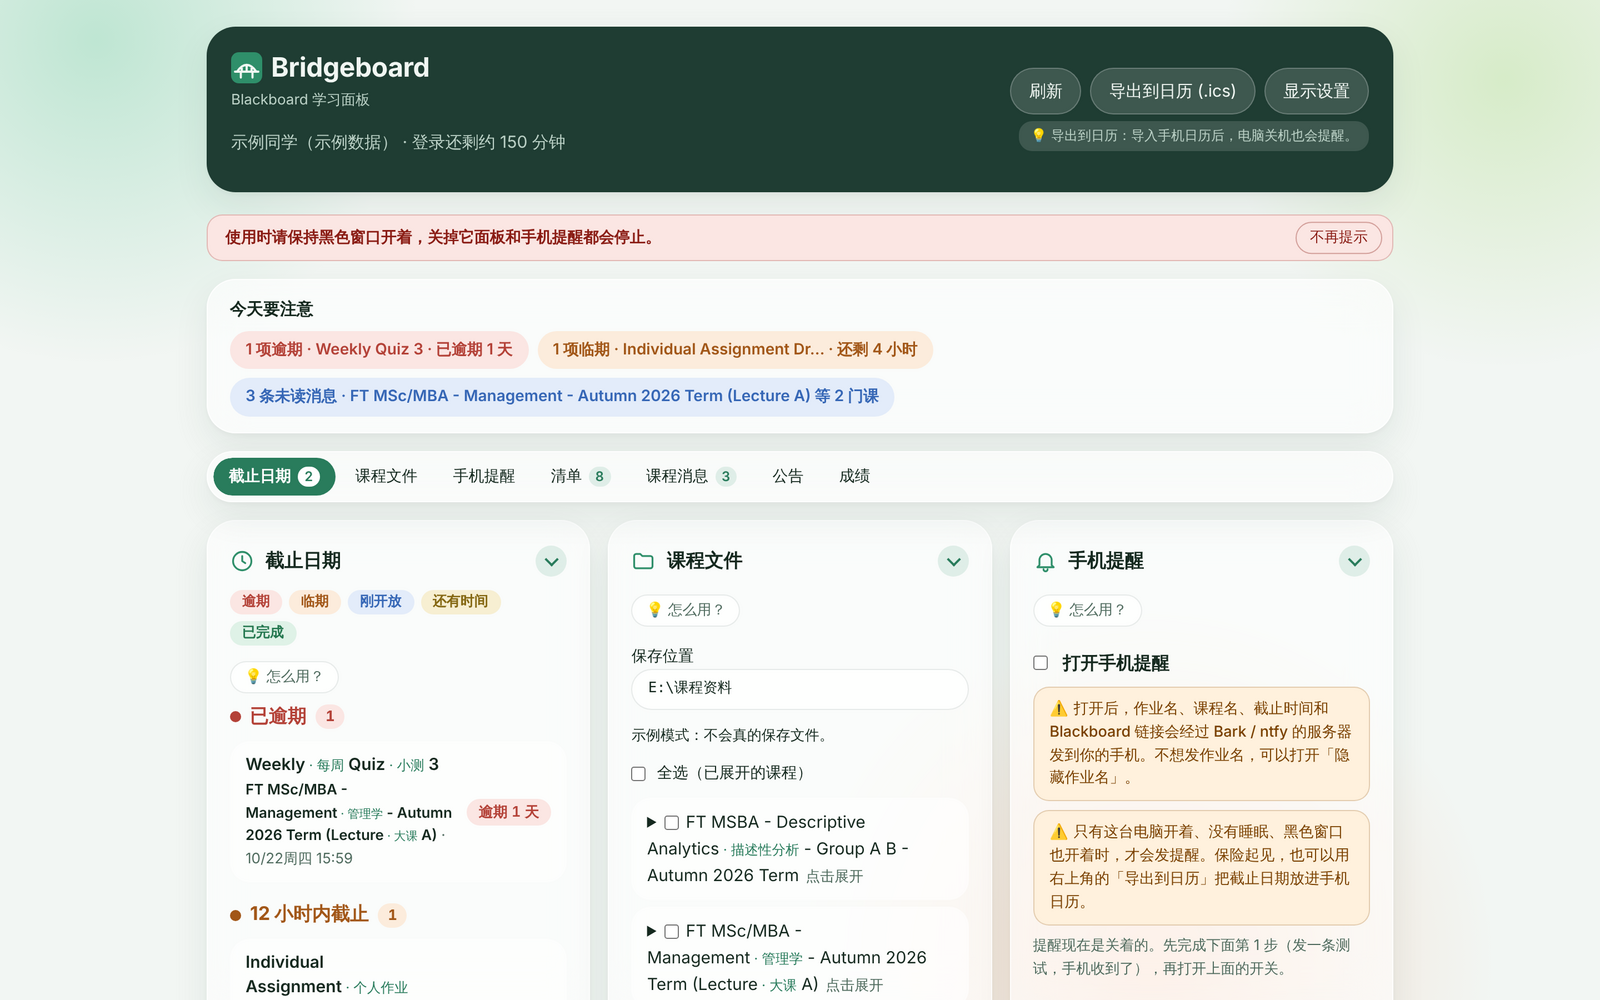
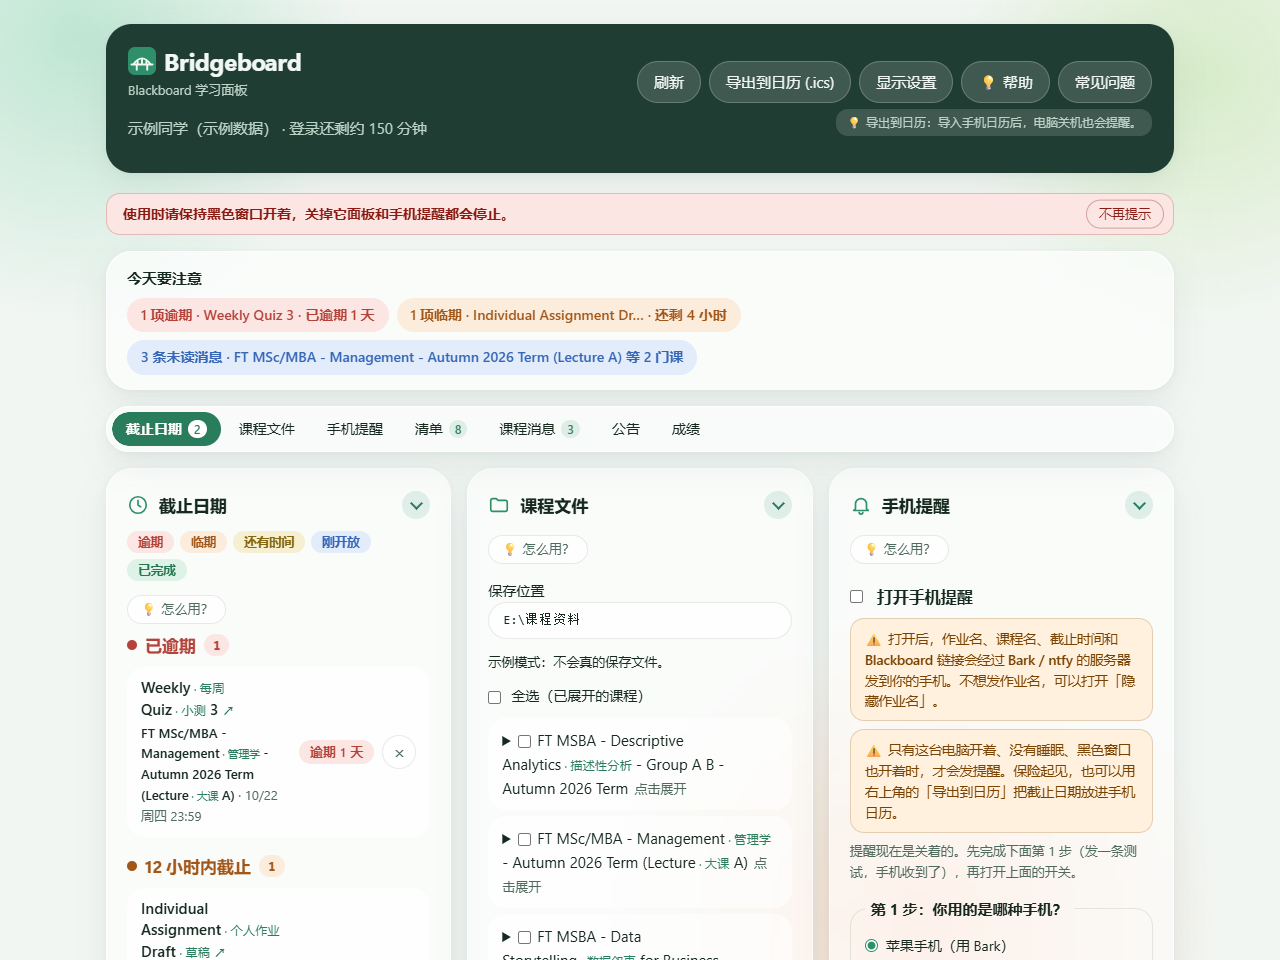
First stage done: new screenshots and README (v0.3.0)
The first-run guide is finished and the owner confirmed the first stage
complete, so the middle number goes up.

README: a new overview screenshot plus the welcome box and the help card
(demo data, light look); the feature list adds the first-run guide and
💡 帮助 with a searchable FAQ, ignoring overdue work, ↗ links to Blackboard
and the read-only promise; the colour order, usage notes, privacy and
roadmap are brought up to date. The licence section is unchanged.

CLAUDE.md: the roadmap moves the guide to Done; now comes the first-stage
wrap-up (visitor statistics, a full review, the public launch), then a
Mac version and an English website.

diff --git a/README.md b/README.md
@@ -27,13 +27,22 @@ Every Blackboard deadline on one page
 
 | | 功能 | What it does |
 | --- | --- | --- |
-| ⏰ | **五色截止提醒**：所有课程的作业按逾期、临期、刚开放、还有时间、已完成排好，点标题直达 Blackboard | Deadlines from every course in five colours, one click to the assignment |
+| ⏰ | **五色截止提醒**：所有课程的作业按逾期、临期、还有时间、刚开放、已完成排好 | Deadlines from every course in five colours |
+| 🙈 | **逾期作业可以忽略**：点 × 不再提醒，6 秒内可撤销，随时能在「已忽略」里恢复；只记在你的电脑上 | Stop reminders for an overdue assignment, with undo and restore |
+| ↗ | **直接打开 Blackboard**：作业、课程消息、公告、成绩后面的 ↗ 在新标签页打开 Blackboard 对应的页面 | A ↗ opens the matching Blackboard page in a new tab |
 | 📁 | **课程文件一键下载**：勾选课程，选文件夹（U 盘也行），按课程整理；可导出给 AI 用的文字版 | Download course files sorted by course, with text copies for AI tools |
 | 🔔 | **手机提醒**：iPhone 用 Bark，安卓用 ntfy；默认关闭，测试成功才会发 | Opt-in phone alerts through Bark (iPhone) or ntfy (Android) |
 | ✅ | **清单**：作业自动加入，交了自动打勾；也能写自己的待办 | A checklist that fills and ticks itself, plus your own to-dos |
 | 💬 | **课程消息**：各门课的消息集中在一处，未读标出来 | Course messages from every course in one list |
 | 📢 | **公告和成绩**：所有课程的公告和成绩一起看 | Announcements and grades across courses |
 | 📅 | **导出到日历**：导入手机日历，电脑关机也会提醒 | Export deadlines to your phone's calendar |
+| 💡 | **新手引导和帮助**：第一次打开会在页面上一步步带你认识各个功能；之后随时点「💡 帮助」再看，「常见问题」可以搜索 | A first-run walk-through, a 💡 help button and a searchable FAQ |
+| 🔒 | **只读，不改 Blackboard**：只读取，不交作业、不做测验，连「已读」都不会替你标 | Read-only: it never changes anything in Blackboard, not even "read" |
+
+<p align="center">
+  <img src="docs/screenshot-guide.png" width="420" alt="第一次打开：欢迎框「感谢您选择 Bridgeboard」（示例数据）">
+  <img src="docs/screenshot-help.png" width="420" alt="「💡 帮助」打开的新手引导卡片（示例数据）">
+</p>
 
 适用于使用 **Blackboard Learn Ultra** 的学校（登录后网址里有 `/ultra`）。 · Works with schools on Blackboard Learn Ultra.
 
@@ -44,6 +53,8 @@ Every Blackboard deadline on one page
 3. **双击 `start.bat`**：会出现一个黑色窗口（**用的时候别关**），浏览器自动打开面板。Windows 提示「已保护你的电脑」时，点「更多信息」→「仍要运行」。
 
 然后填入学校的 Blackboard 网址，点 **连接 Blackboard**，在弹出的窗口里像平时一样登录。学校问 **「保持登录状态？」（Stay signed in?）时选「是」**，以后基本不用再登录。
+
+第一次打开时会出现欢迎框和新手引导，在页面上一步步带你认识各个功能，只有几步。以后想再看，点右上角的 **💡 帮助**。
 
 想先看看效果：双击 `demo.bat`，用的是虚构的示例数据，不需要登录。
 
@@ -57,6 +68,15 @@ Every Blackboard deadline on one page
 </details>
 
 ## 使用说明
+
+<details>
+<summary><b>新手引导和帮助</b></summary>
+
+第一次打开面板时，先出现欢迎框「感谢您选择 Bridgeboard」，点 **开始** 后会在真实页面上一块一块地指给你看：先记住黑色窗口不要关，然后是截止日期、课程文件、手机提醒、清单、显示设置和帮助。引导时页面点不动，只能用说明框里的按钮，看完就能正常用了。点 **跳过引导** 也会先看一眼「黑色窗口不要关」那一条。还没登录的话，登录成功、课程读到后会再问一次要不要看看各个功能在哪。
+
+以后想再看，点右上角的 **💡 帮助**，是同样内容的卡片版；第 1 页的 **在页面上再带我走一遍** 可以重新走一次。旁边的 **常见问题** 直接打开常见问题页，最上面有搜索框，输入「提醒」「登录」这类关键字就只显示相关的问题。
+
+</details>
 
 <details>
 <summary><b>页面导航和显示设置</b></summary>
@@ -77,7 +97,9 @@ Every Blackboard deadline on one page
 <details>
 <summary><b>截止日期的五种颜色</b></summary>
 
-每个截止事项都按紧急程度标上颜色和文字：🔴 已逾期、🟠 临期（默认 12 小时内截止）、🔵 新开放（默认当天开放）、🟡 进行中、🟢 已提交。点作业标题会在新标签页打开 Blackboard 里的作业页面。
+每个截止事项都按紧急程度标上颜色和文字，最上面的颜色说明和下面的分组是同一个顺序：🔴 逾期（已逾期）、🟠 临期（默认 12 小时内截止）、🟡 还有时间（进行中）、🔵 刚开放（默认当天新开放）、🟢 已完成（已提交）。作业标题后面的 **↗** 会在新标签页打开 Blackboard 里的作业页面。
+
+逾期的作业不想再被提醒，点那一条右边的圆形 **×**：它会移到截止日期区最下面的 **已忽略（N）** 里，不再出现在「今天要注意」、导航栏数字和手机的逾期提醒里。点错了，底部 6 秒内点 **撤销**；以后想恢复，展开「已忽略」点 **恢复**。忽略只记在你的电脑上，不会改动 Blackboard；如果之后 Blackboard 显示你交了，会自动按「已完成」显示。
 
 截止日期里有一个时间轴：往左拖左边的手柄，调整开放多久以内算"新开放"（当天，或 6 到 72 小时）；往右拖右边的手柄，调整离截止多久以内算"临期"（1 到 72 小时）。颜色会立刻更新，下次打开还在；点 **恢复默认** 可以改回来。
 
@@ -98,7 +120,7 @@ Every Blackboard deadline on one page
 <details>
 <summary><b>课程消息</b></summary>
 
-**课程消息** 把老师和同学在各门课里发给你的 Blackboard 消息集中在一起，最新的在最上面，未读的标着"未读"。点一条就能展开看完整对话；要回复，点 **在 Blackboard 中打开**。可以只看未读，也可以按课程筛选。面板只读取消息，不会替你把消息标成已读。
+**课程消息** 把老师和同学在各门课里发给你的 Blackboard 消息集中在一起，最新的在最上面，未读的标着"未读"。点一条就能展开看完整对话；每一行「查看」旁边的 **在 Blackboard 打开 ↗** 直接去这门课的消息页，要回复就在那里回复。可以只看未读，也可以按课程筛选。面板只读取消息，不会替你把消息标成已读。
 
 </details>
 
@@ -138,7 +160,7 @@ Every Blackboard deadline on one page
 ## 隐私和安全 · Privacy and safety
 
 - 面板只在 `127.0.0.1` 上运行，别的网页和设备连不上。The server listens on `127.0.0.1` only and rejects requests from other host names or web pages.
-- 只**读取** Blackboard，不能交作业、不能做测验。It only **reads** from Blackboard; it cannot submit work or take quizzes.
+- 只**读取** Blackboard，不能交作业、不能做测验，连「已读」都不会替你标；有自动测试守着这一条。面板里的 ↗ 链接会在新标签页打开 Blackboard，点开后就是在 Blackboard 里操作了（比如在那里打开消息会被标成已读），看完关掉那个标签就回到面板。It only **reads** from Blackboard; it cannot submit work or take quizzes, and never marks anything as read (a test guards this). Links open Blackboard itself in a new tab.
 - The sign-in window's debugging port listens on `127.0.0.1` only and closes with the window.
 - Nothing leaves your computer except **phone alerts**, and only if you turn them on: assignment and course names, due times and Blackboard links go to your phone through the Bark (`api.day.app`) or ntfy (`ntfy.sh`) server, or a self-hosted https server you enter. Turn on 隐藏作业名 to send no names or links. Cookies and message text are never sent. Your Bark key or ntfy topic stays in `~/.blackboard-study-hub/settings.json`.
 - Your session is stored encrypted by blackboard-mcp in `~/.blackboard-mcp/`. Never commit that folder or share a copied cURL.
@@ -153,7 +175,9 @@ Every Blackboard deadline on one page
 - [x] 五色截止日期、清单、课程消息、分区导航和显示设置 · Five-colour deadlines, checklist, course messages, navigation and display settings
 - [x] 手机强提醒（Bark / ntfy）· Strong phone alerts (Bark / ntfy)
 - [x] 全新界面设计 · New UI design
-- [ ] 新手引导（常见问题随时可查），然后正式发布 · First-run guide with an always-available FAQ, then the public launch
+- [x] 新手引导、💡 帮助和可搜索的常见问题，逾期作业可以忽略，↗ 直接打开 Blackboard（v0.3.0，第一阶段完成）· First-run guide, help button and searchable FAQ, ignoring overdue work, ↗ links to Blackboard (v0.3.0, first stage done)
+- [ ] 第一阶段收尾：访问统计、整体审核、公开推广 · Wrapping up: visitor statistics, a full review, the public launch
+- [ ] 推广之后：Mac 版、官网英文版 · After the launch: a Mac version and an English website
 - [ ] 之后：课程概览和复习资料包，用你自己的 API Key 做 AI 答疑 · Later: course overview, study packs, AI Q&A with your own API key
 
 <details>
@@ -195,14 +219,18 @@ Enter your school's Blackboard address and click **连接 Blackboard**. A separa
 
 ### Features in detail
 
-- **Five-colour deadlines**: overdue, due soon, newly opened, open and submitted, each with a text label and time left. Drag the timeline to choose how long counts as "new" and "due soon"; it is saved for next time. Each title opens the assignment in Blackboard.
+- **Five-colour deadlines**: overdue, due soon, open, newly opened and submitted (the legend and the groups in one order), each with a text label and time left. Drag the timeline to choose how long counts as "new" and "due soon"; it is saved for next time. Each title has a ↗ that opens the assignment in Blackboard.
+- **Ignore overdue work**: a round × moves an overdue assignment into a folded 已忽略 list (6-second undo, 恢复 to bring it back); it then leaves 今天要注意, the nav count and overdue phone alerts. Stored locally only; it stops counting once Blackboard shows the work handed in.
+- **Links to Blackboard**: a small ↗ after assignments, course messages, announcements and grades, built only on the school's https address. Course pages use the address Blackboard gives for the course; announcements and grades link to the course, since the API gives no page address for them.
 - **Announcements** from all open courses, newest first. **Grades** per course, with percentages.
 - **Checklist**: opened assignments appear by themselves and tick when Blackboard shows them submitted (a manual tick is only a local mark); below, the student's own to-dos with optional due dates, edit in place, and undo after delete. Saved locally only, and still available while signed out.
 - **Course messages**: message threads from every open course in one list, newest first, with unread counts, filters by unread and course, and the full thread readable in place as plain text. Read-only: replying happens in Blackboard.
 - **Calendar export**: an `.ics` file for Google Calendar, Outlook or Apple Calendar. Each deadline reminds you 12 hours, 5 hours, 1 day and 3 days before (the 12- and 5-hour ones first, for phone calendars that keep two). Each event links back to the assignment.
 - **Course file downloader**: save files to any folder (a USB drive works), organised by course and Blackboard folder. Files already there are skipped, public Google Docs/Slides/Sheets links are saved as PDF, and an optional `.txt` export of each PDF, Word and PowerPoint file is ready for an AI tool.
 - **Phone alerts (opt-in)** through Bark (iPhone) or ntfy (Android): once when a deadline turns orange, a strong alert N hours before (rings on silent at volume 5-10, with a 试听 button) and again at 2 and 1 hours left if still not handed in, once when overdue, and optionally for new course messages. Quiet hours, hidden assignment names, a sent log so restarts never repeat, and an optional Windows start-up launcher. Off by default; a test alert must reach the phone before it can be switched on.
-- **Beginner safety nets**: plain-Chinese errors with a button for the next step, friendly empty states, and a clear banner if the black window is closed. **Demo mode** with made-up data.
+- **First-run guide and help**: a welcome box, then a spotlight tour on the real page (the black-window rule cannot be skipped); 💡 帮助 shows the same words as cards, and 常见问题 opens docs/FAQ.md with a search box. Remembered in settings.json.
+- **Read-only guard**: a test scans our code so it only ever asks the library to read, never marks anything as read, and only phone alerts send anything out.
+- **Beginner safety nets**: plain-Chinese errors with a button for the next step, friendly empty states, a page that keeps retrying instead of hanging on 正在连接, and a clear banner if the black window is closed. **Demo mode** with made-up data.
 
 ### Development
 
@@ -210,7 +238,7 @@ Enter your school's Blackboard address and click **连接 Blackboard**. A separa
 npm test
 ```
 
-To publish a release, push a version tag (for example `git tag v0.2.0 && git push origin v0.2.0`). The Release workflow runs the tests, builds the Windows portable zip with `scripts/build-portable.sh` (the app plus Node.js's `node.exe`, checked against nodejs.org's SHA-256 list) and attaches it to a GitHub Release as `Bridgeboard-<version>-windows.zip` and `Bridgeboard-Windows.zip`.
+To publish a release, push a version tag (for example `git tag v0.3.0 && git push origin v0.3.0`). The Release workflow runs the tests, builds the Windows portable zip with `scripts/build-portable.sh` (the app plus Node.js's `node.exe`, checked against nodejs.org's SHA-256 list) and attaches it to a GitHub Release as `Bridgeboard-<version>-windows.zip` and `Bridgeboard-Windows.zip`.
 
 </details>
 

diff --git a/CLAUDE.md b/CLAUDE.md
@@ -51,15 +51,14 @@ Picture the user as extremely impatient, not technical at all, who reads nothing
 
 ## Roadmap
 
-Order agreed with the owner (2026-10-22): **functional modules first, then UI design, then the first-run guide**, because the guide walks through every feature and would need redoing after each change.
+Order agreed with the owner (2026-10-22): **functional modules first, then UI design, then the first-run guide**, because the guide walks through every feature and would need redoing after each change. All three are done.
 
-- Done: pop-up sign-in with silent renewal; blackboard-mcp bundled in vendor/ (rebuild with `npm run vendor`, keep vendor/THIRD-PARTY-NOTICES.txt in sync); course file downloader (not yet: attachments and files embedded in page bodies); Windows portable zip via the Release workflow; module 1, five-colour deadlines with the adjustable timeline and links to Blackboard; module 2, the checklist; module 7, course messages (read-only; see the open check below); module 3, section navigation, display settings and beginner safety nets; module 4, phone alerts (Bark / ntfy) with the Windows start-up launcher.
-- Next: the remaining functional modules (e.g. weekly digest, study packs, AI Q&A with the student's own API key). Keep their UI plain and consistent with the current page; no visual redesign yet.
+- Done: pop-up sign-in with silent renewal; blackboard-mcp bundled in vendor/ (rebuild with `npm run vendor`, keep vendor/THIRD-PARTY-NOTICES.txt in sync); course file downloader (not yet: attachments and files embedded in page bodies); Windows portable zip via the Release workflow; module 1, five-colour deadlines with the adjustable timeline and links to Blackboard; module 2, the checklist; module 7, course messages (read-only; see the open check below); module 3, section navigation, display settings and beginner safety nets; module 4, phone alerts (Bark / ntfy) with the Windows start-up launcher; the UI redesign (`docs/dev/ui-redesign.md`, five steps, one release each); the first-run guide: welcome box and spotlight tour, the card guide with the FAQ as its last page and an always-available 💡 帮助 (v0.2.15, spec `docs/dev/step5-onboarding.md`); ignoring overdue work, the read-only guard and ↗ links to Blackboard (v0.2.16). **v0.3.0 (2026-10-24): the owner confirmed the first stage finished**; README screenshots refreshed. When a feature changes, update its guide page and tour step in `public/guide.js` and the FAQ.
 - Open check: 课程消息：等有真实未读消息时，验证在面板里阅读不会让 Blackboard 变成已读；如果会，改成只列出线程。
 - Open check: 静默续期用的无窗口 Edge（`--headless=new`）的浏览器标识里带 `HeadlessEdg`，`connectWithBrowser` 会把这个标识和 cookie 一起存下来。怀疑学校服务器会因此作废现有登录：2026-10-24 测了一次静默续期，等了 91 秒仍然失败，之后原本还剩约 175 分钟的登录也变成了过期。以后单独查：确认是不是因为这个标识（比如把标识换成普通 Edge 的再对比），以及续期失败时为什么要等满 90 秒。
-- Now: UI redesign, agreed with the owner on 2026-10-23 (spec: `docs/dev/ui-redesign.md`, five steps, one release each; step 1 is the rename to Bridgeboard).
-- Done (v0.2.15): first-run welcome box and spotlight tour, the card guide with the FAQ as its last page, and an always-available help button (spec: `docs/dev/step5-onboarding.md`). When a feature changes, update its guide page and tour step in `public/guide.js` and the FAQ.
-- Then: README screenshots, then a public launch.
+- Now: wrapping up the first stage: visitor statistics, a full review, then the public launch.
+- After the launch: a Mac version and an English version of getboundly.com.
+- Later: the remaining functional modules (e.g. weekly digest, study packs, AI Q&A with the student's own API key). Keep their UI plain and consistent with the current page.
 - Keep `docs/FAQ.md` current as features change, including the Windows run warnings (click 运行 / 更多信息 → 仍要运行).
 - 「只有电脑开着、黑色窗口开着才会发提醒」 stays the **first** FAQ entry and page 2 of the guide (a test checks they use the same words), because most "没收到提醒" reports come from this. The page says it in the red reminder under the title card (`#keepOpen`; 不再提示 is remembered in localStorage by `public/keep-open.js` with a version, kept equal to the one in `theme.js`; raise it when the wording changes) and in the apricot note in 手机提醒.
 
